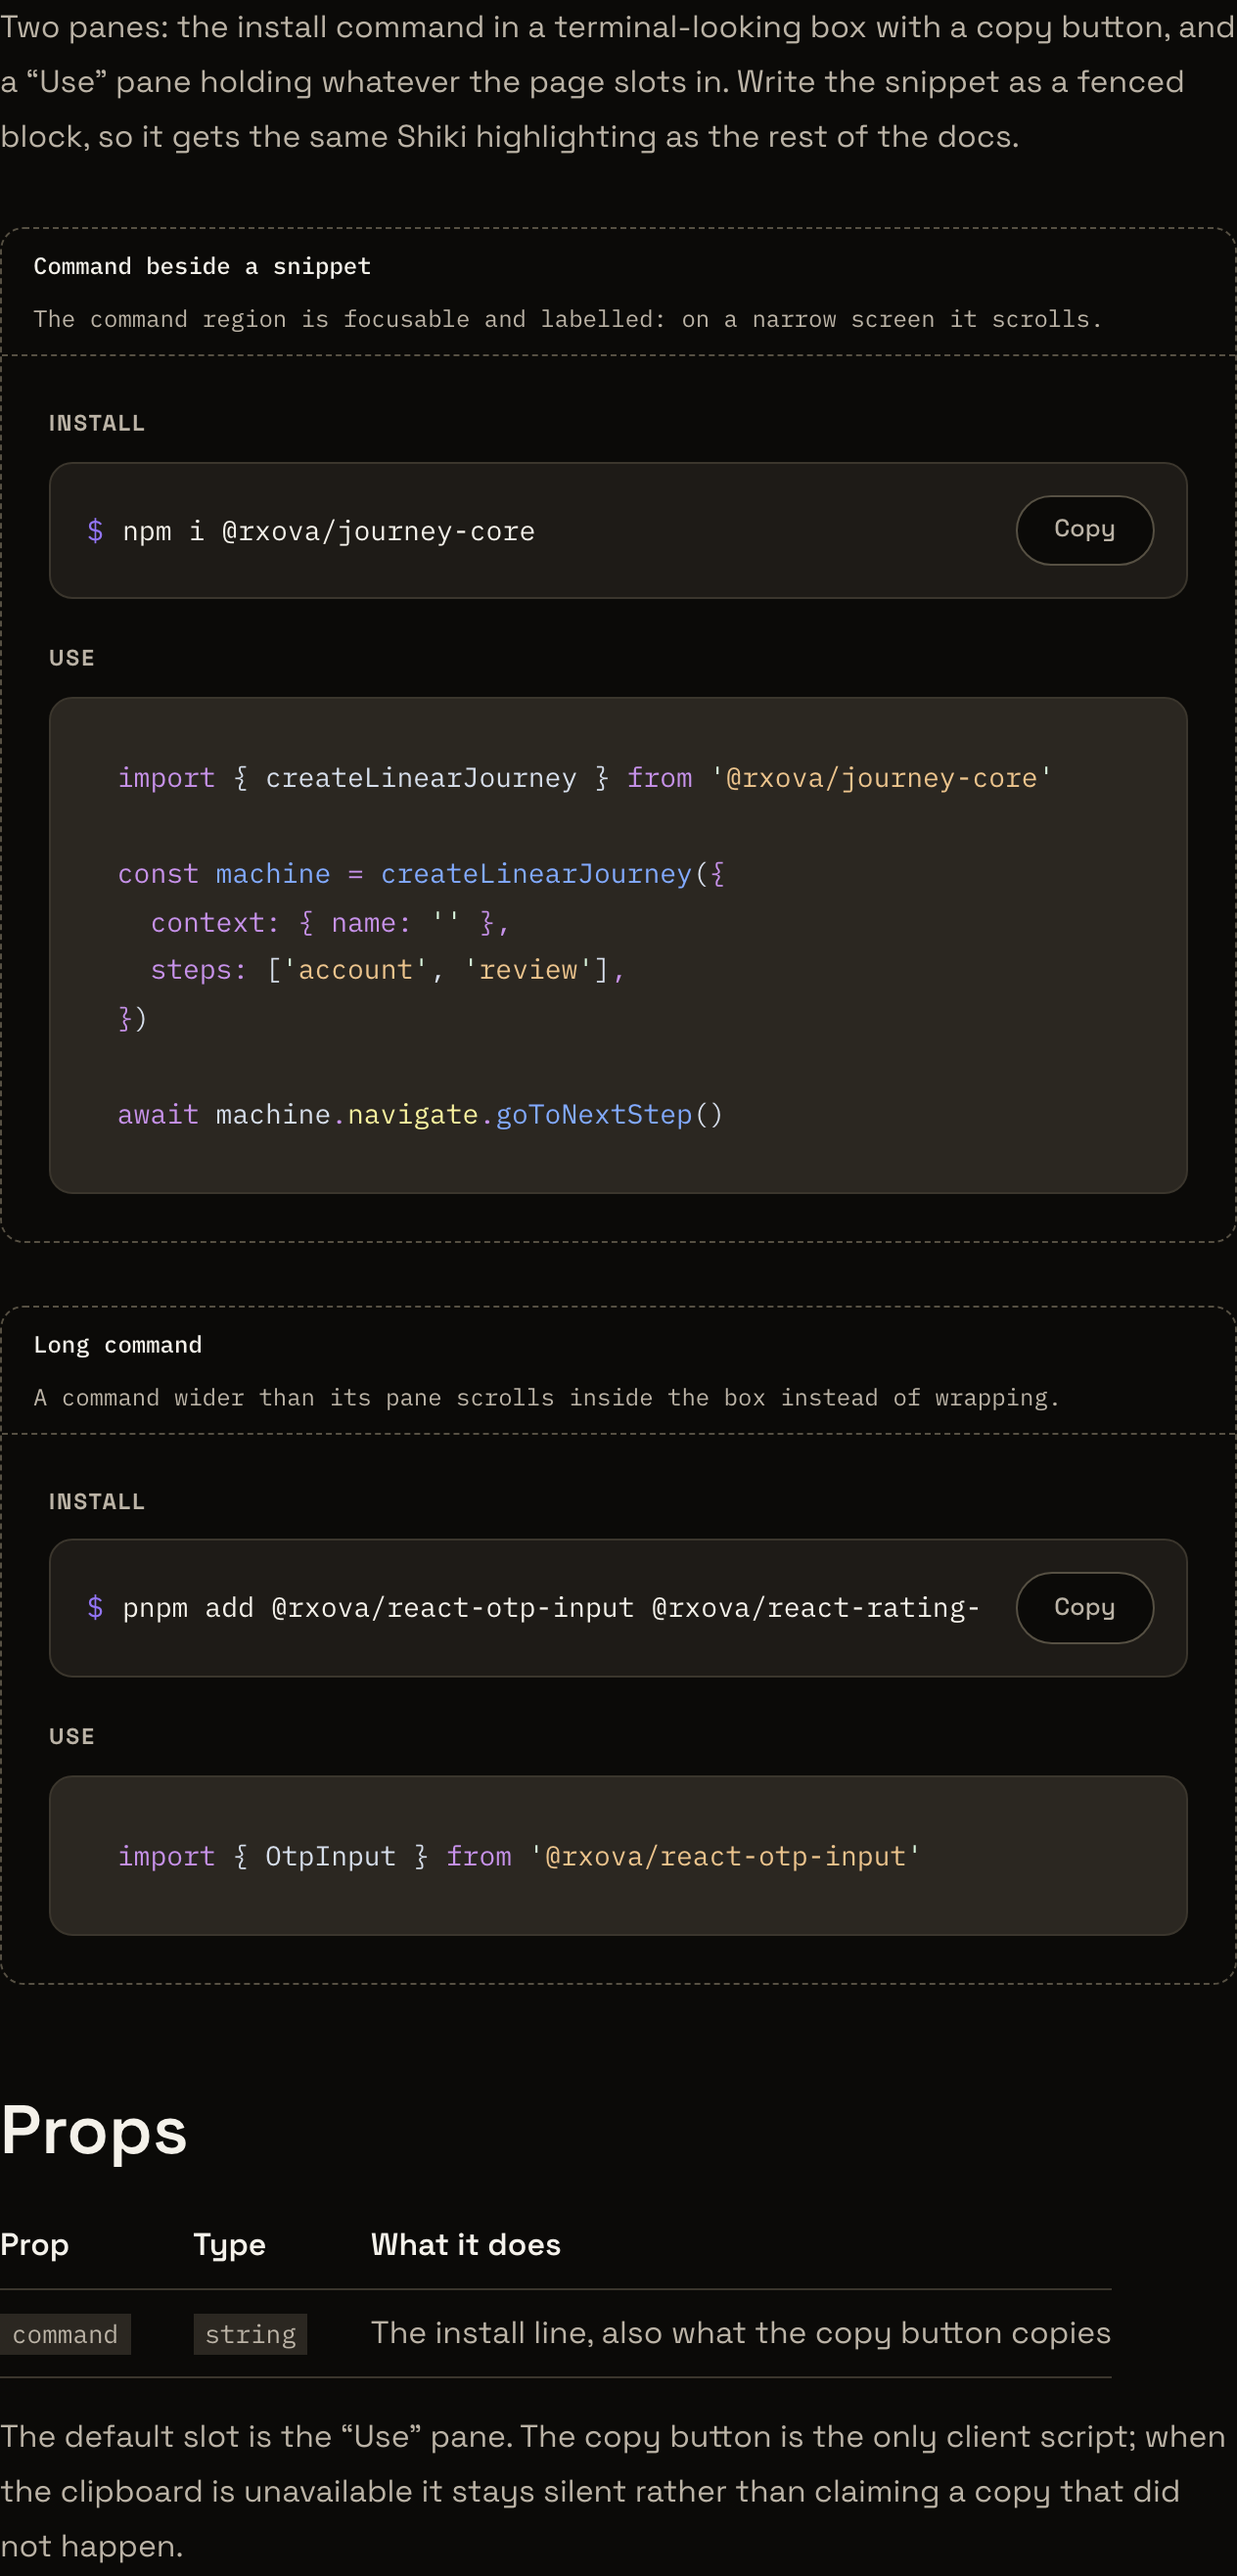
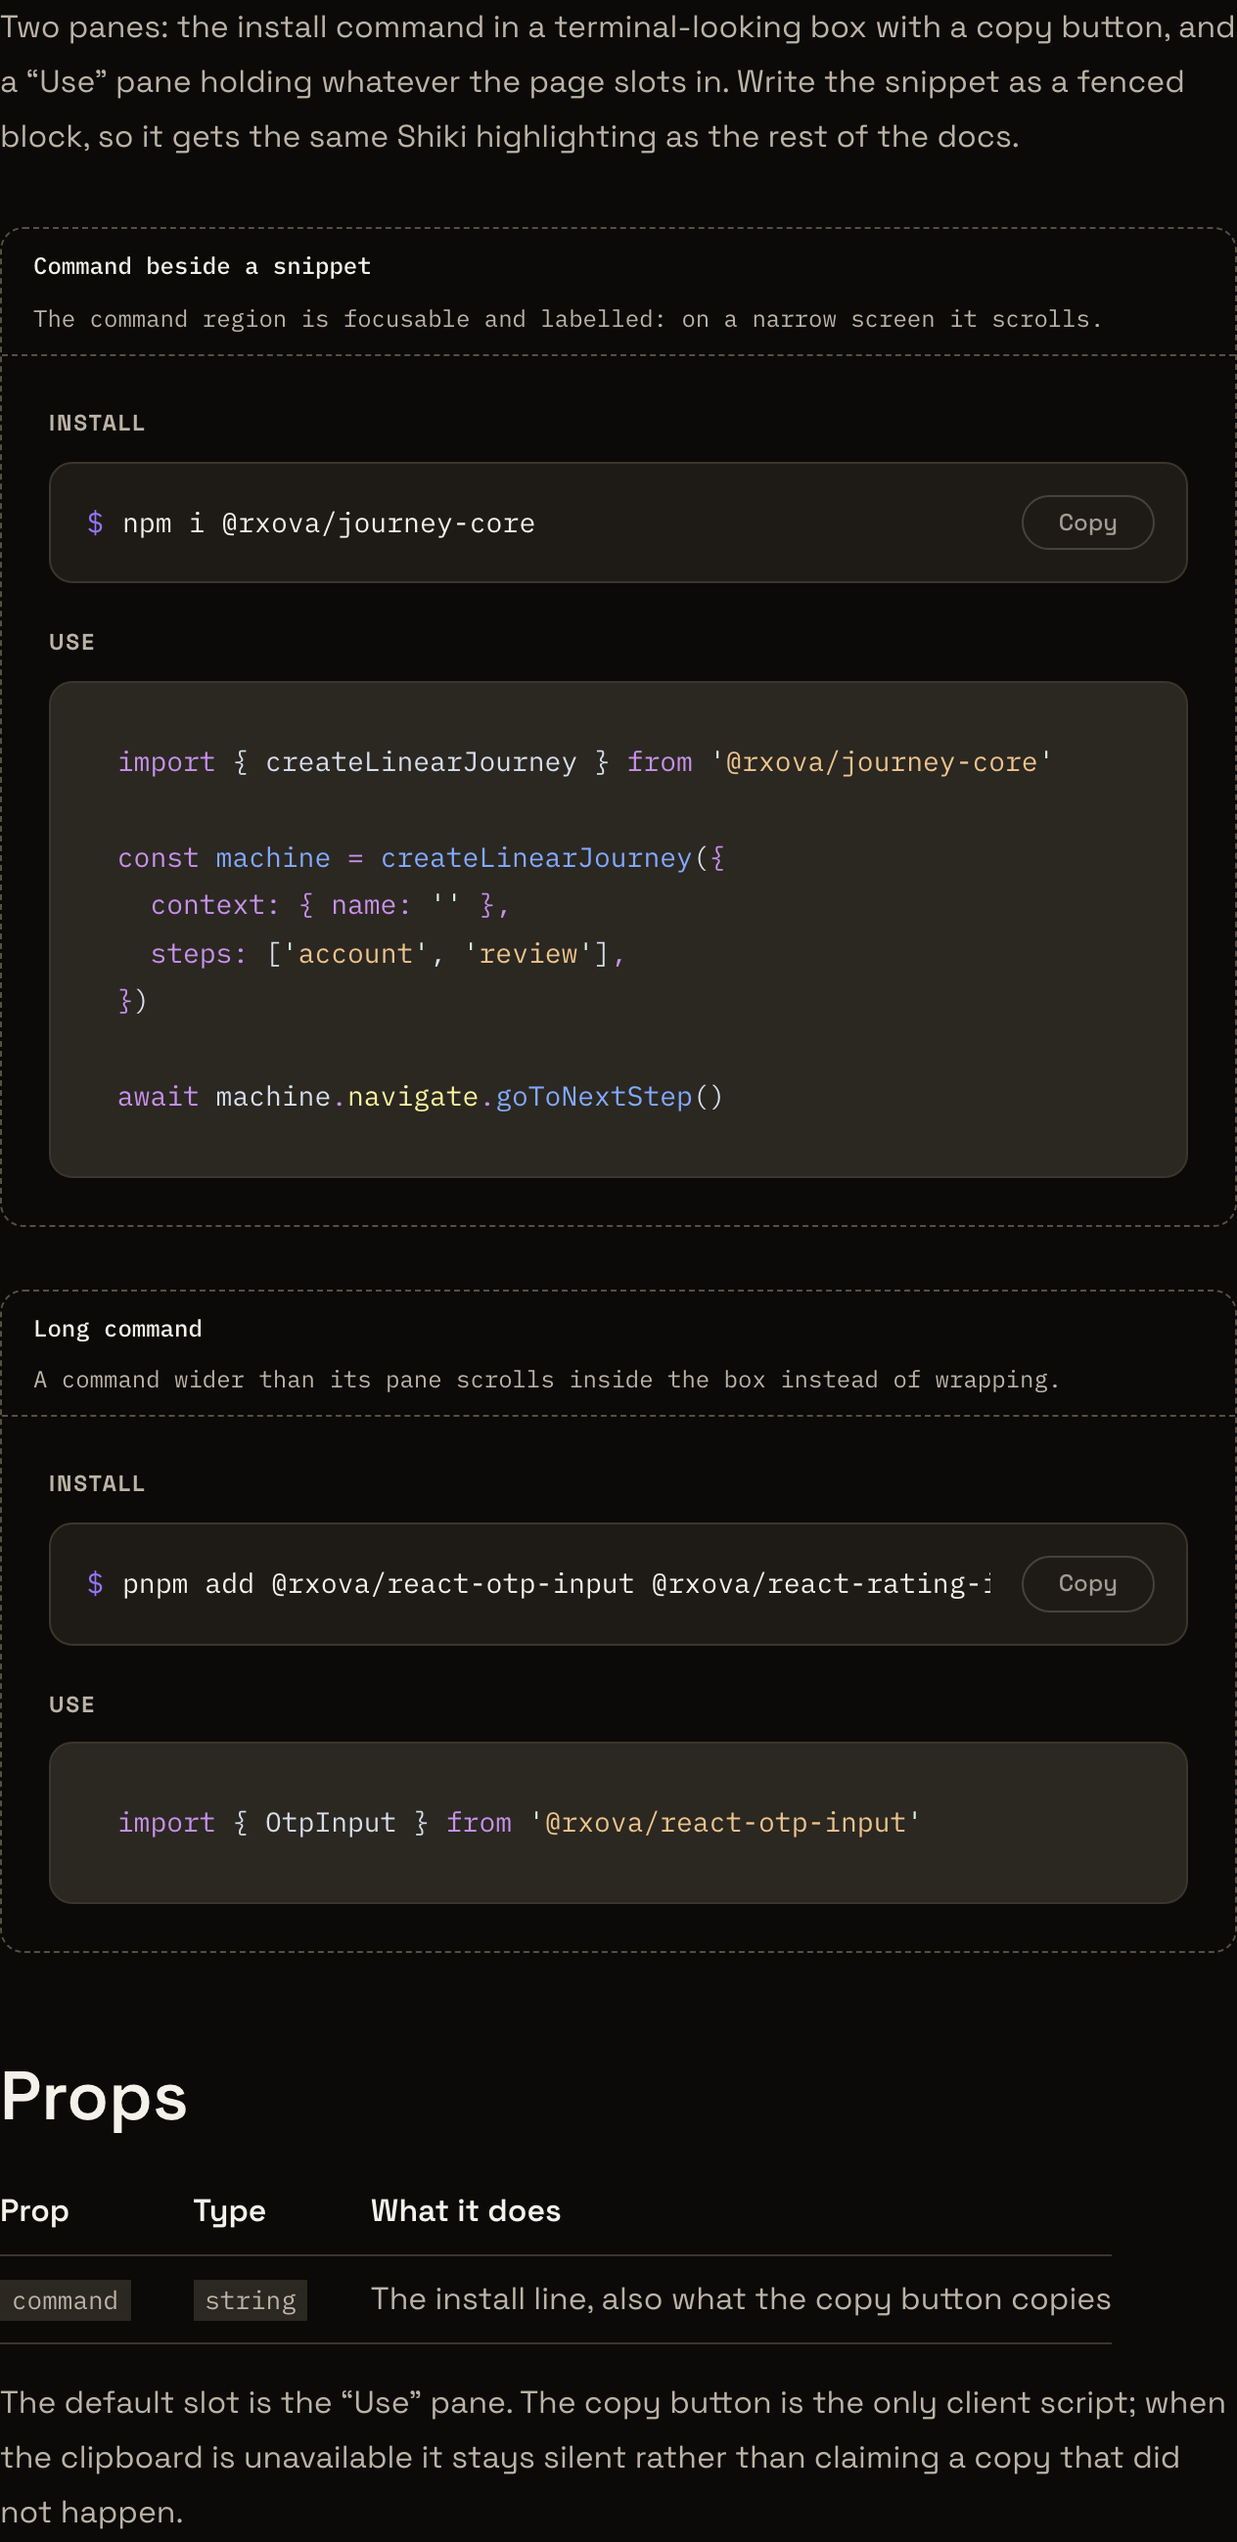
feat(astro-ui): add CopyButton and use it in QuickStart

diff --git a/packages/astro-ui/test/CopyButton.test.ts b/packages/astro-ui/test/CopyButton.test.ts
@@ -1,0 +1,24 @@
+import { describe, expect, it } from 'vitest'
+
+import CopyButton from '../src/components/CopyButton.astro'
+import { render } from './render.ts'
+
+describe('CopyButton', () => {
+  it('carries the text to copy, both labels and a status line for screen readers', async () => {
+    const html = await render(CopyButton, { props: { text: 'npm i ts-extended-errors' } })
+    expect(html).toMatch(
+      /^<button class="rx-copy" type="button" data-rx-copy="npm i ts-extended-errors"/,
+    )
+    expect(html).toContain('<span class="rx-copy__idle">Copy</span>')
+    expect(html).toContain('<span class="rx-copy__done" aria-hidden="true">Copied</span>')
+    expect(html).toContain('<span class="rx-copy__status" role="status"></span>')
+    expect(html).not.toContain('aria-label')
+  })
+
+  it('takes an accessible name when "Copy" alone would not say what is copied', async () => {
+    const html = await render(CopyButton, {
+      props: { text: 'x', label: 'Copy the install command' },
+    })
+    expect(html).toContain('aria-label="Copy the install command"')
+  })
+})

diff --git a/apps/storybook/stories/CopyButton.stories.ts b/apps/storybook/stories/CopyButton.stories.ts
@@ -1,0 +1,22 @@
+import CopyButton from '@rxova/astro-ui/components/CopyButton.astro'
+
+import type { Meta, Story } from './types.ts'
+
+const meta: Meta = {
+  title: 'Primitives/CopyButton',
+  component: CopyButton,
+  tags: ['autodocs'],
+  args: { text: 'pnpm add @rxova/journey-core', label: 'Copy the install command' },
+}
+
+export default meta
+
+export const OnThePage: Story = {}
+
+/** Drawn in `currentColor`, so it reads on a dark terminal in either theme. */
+export const OnATerminal: Story = {
+  decorators: [
+    (story) =>
+      `<div style="display:flex;align-items:center;gap:.6rem;padding:.4rem .45rem .4rem .9rem;border-radius:8px;background:#14140f;color:#f4f1ea;font-family:var(--rx-font-mono);font-size:.85rem"><span style="opacity:.6">$</span><code style="flex:1">pnpm add @rxova/journey-core</code>${story() as string}</div>`,
+  ],
+}

diff --git a/packages/astro-ui/test/QuickStart.test.ts b/packages/astro-ui/test/QuickStart.test.ts
@@ -10,7 +10,8 @@ describe('QuickStart', () => {
     expect(html).toContain(
       '<span class="rx-qs__prompt" aria-hidden="true">$</span>npm i @rxova/journey-core',
     )
-    expect(html).toContain('data-copy="npm i @rxova/journey-core"')
+    expect(html).toContain('data-rx-copy="npm i @rxova/journey-core"')
+    expect(html).toContain('aria-label="Copy the install command"')
   })
 
   it('frames whatever the page slots in as the snippet', async () => {

diff --git a/.changeset/astro-ui-copy-button.md b/.changeset/astro-ui-copy-button.md
@@ -1,0 +1,5 @@
+---
+'@rxova/astro-ui': minor
+---
+
+Add `CopyButton`: a "Copy" pill that puts a string on the clipboard, reads "Copied" for a moment and announces it to screen readers. It draws in `currentColor`, so it sits on any surface, a dark terminal included. `QuickStart` now uses it instead of its own button.
